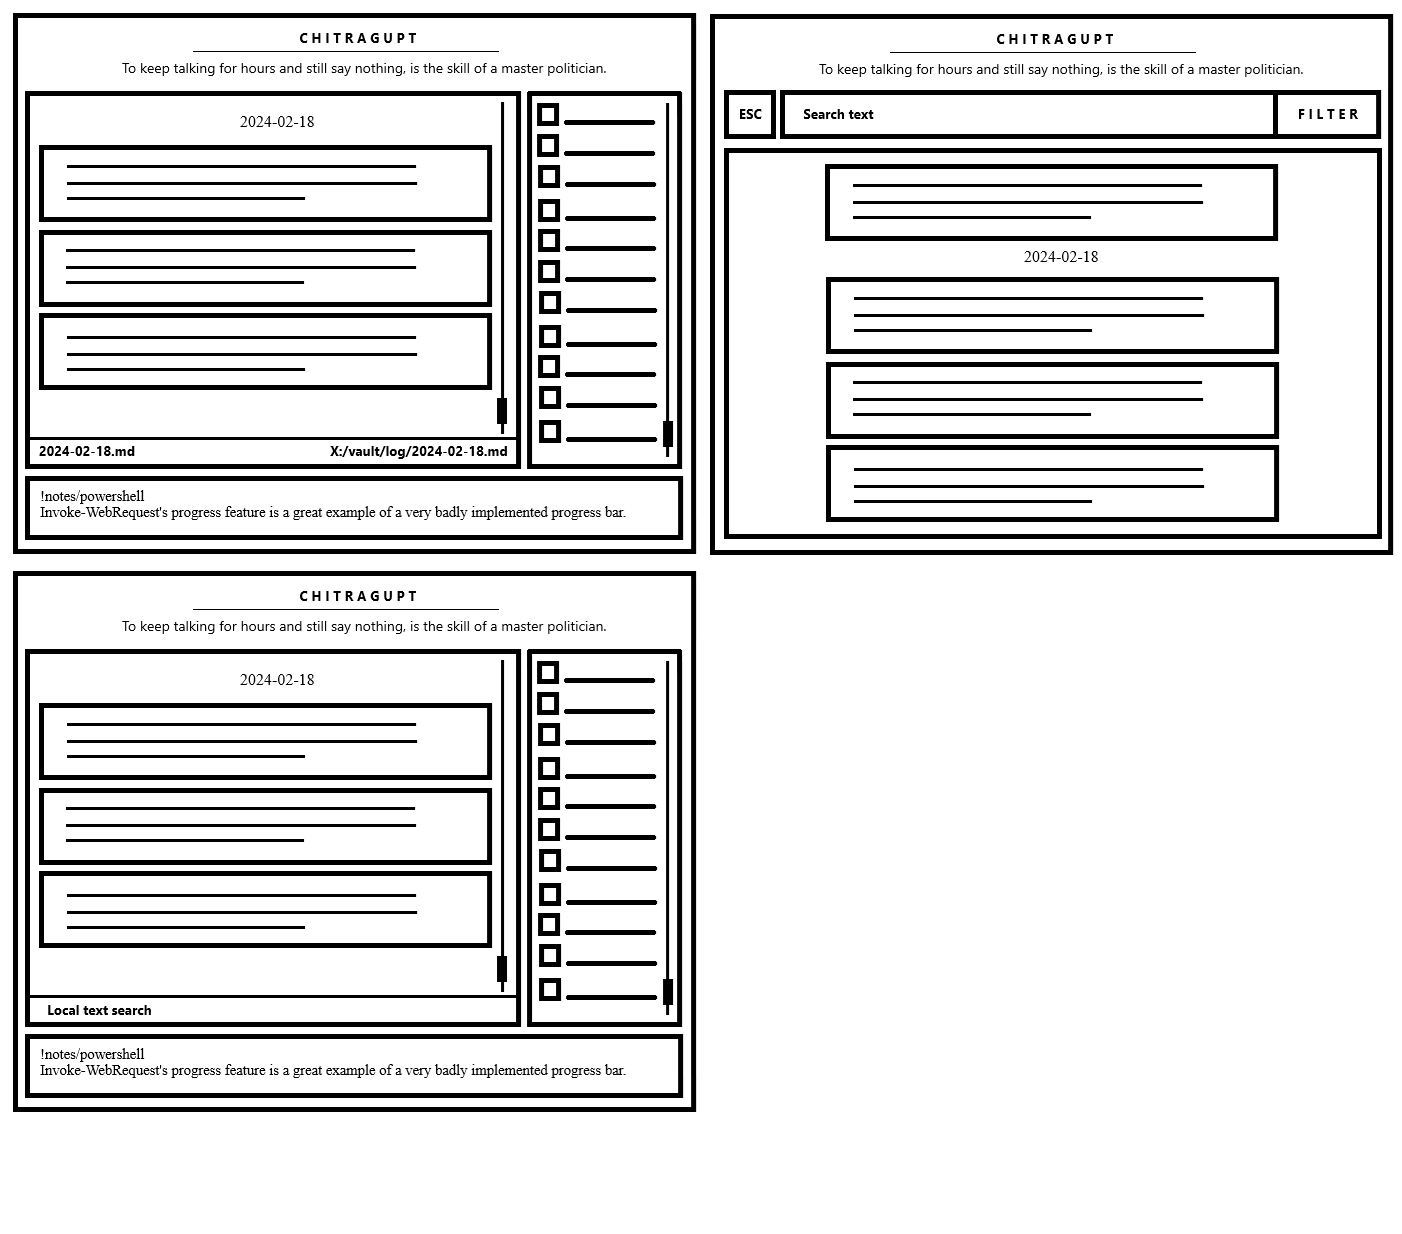
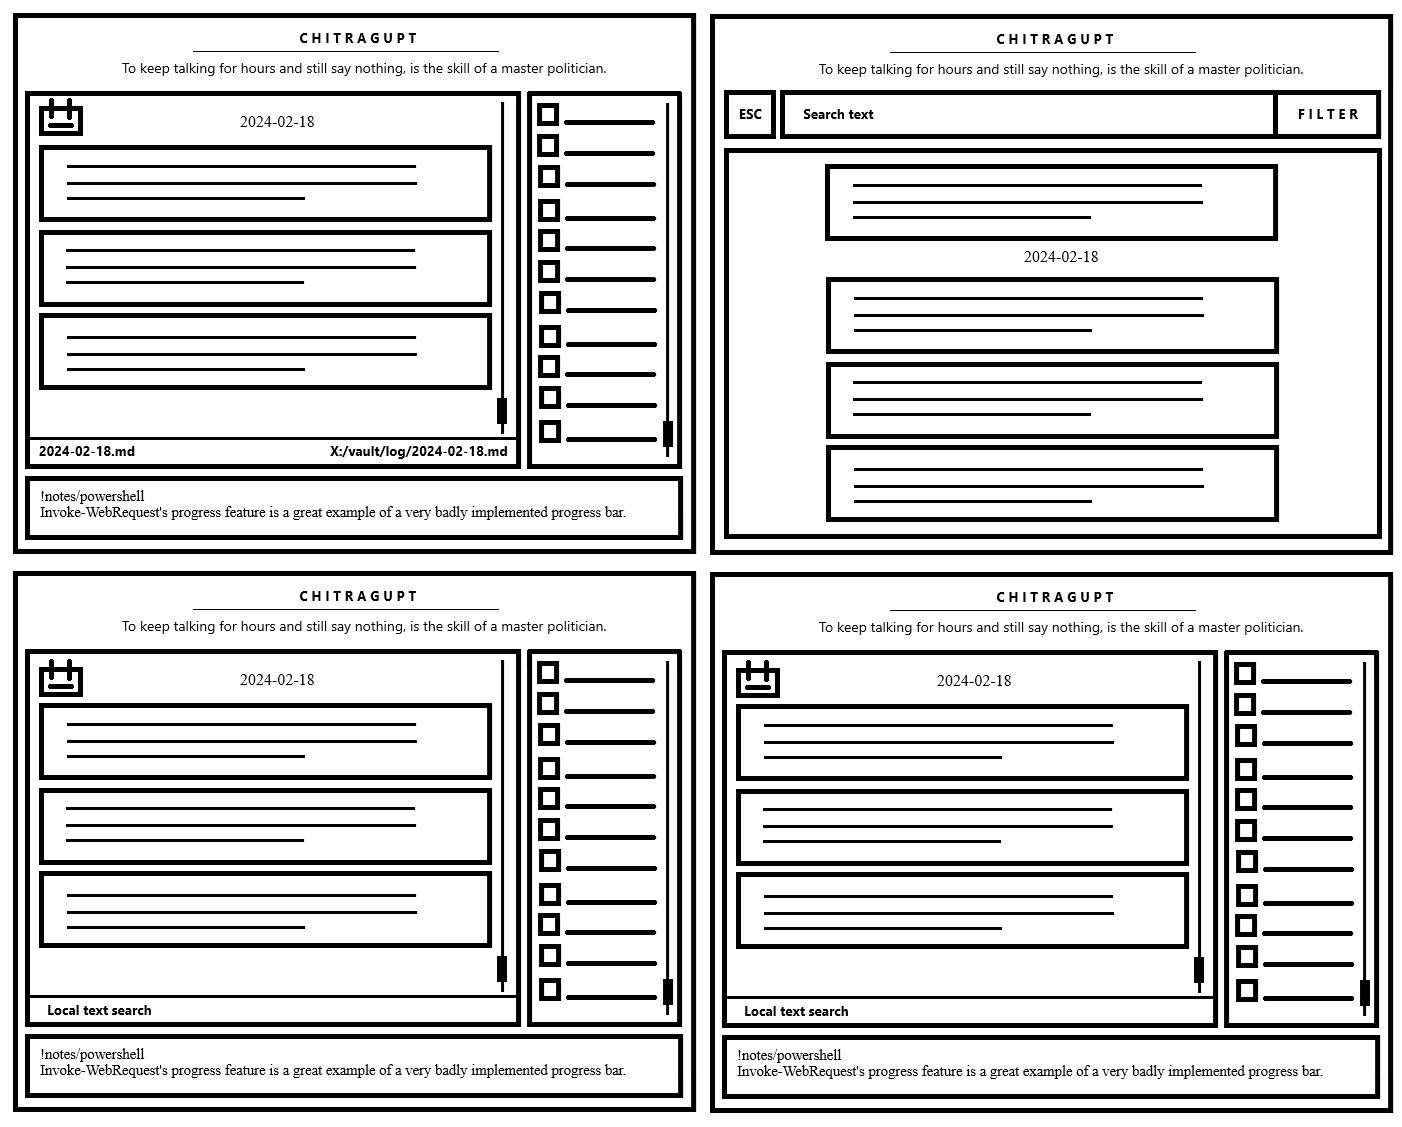
backup

Changed region(s): [[0.0, 0.0, 1.0, 0.9938]]

diff --git a/python/main.py b/python/main.py
@@ -1,19 +1,38 @@
 import os
 import json
 from datetime import date
-from datetime import datetime
 from PyQt6.QtCore import *
 from PyQt6.QtWidgets import *
+
+class TextArea(QTextEdit):
+    def __init__(self,parent):
+        super().__init__(parent=parent)
+        self.show()
+    def keyPressEvent():
 
 class WidgetGallery(QDialog):
 
     def __init__(self, parent=None):
         super(WidgetGallery, self).__init__(parent)
 
-        self.display_window = QVBoxLayout()
-        self.new_label_style = "color:black; background-color: coral; border: 1px solid brown; border-radius: 5px; padding: 10px; font-size: 16px;"
-        self.record_template = { "timestamp":0, "tags":[], "attachments":[], "text":"" }
-        self.todo_template = { "timestamp":0, "checkstate":0, "text":"" }
+        top_layout = QVBoxLayout()
+        mid_layout = QHBoxLayout()
+        btm_layout = QHBoxLayout()
+
+        quote = QLabel()
+        quote.setText("Better to be a smart fella than to be a fart smella")
+        quote.setStyleSheet("font-size:12px; padding:10px;")
+        quote.setAlignment(Qt.AlignmentFlag.AlignCenter)
+        top_layout.addWidget(quote)
+
+        self.log_frame = QVBoxLayout()
+        self.todo_frame = QVBoxLayout()
+        mid_layout.addLayout(self.log_frame)
+        mid_layout.addLayout(self.todo_frame)
+
+        self.log_label_style = "color:black; background-color: coral; border: 1px solid brown; border-radius: 5px; padding: 10px; font-size: 16px;"
+        self.todo_label_style = "color:black; background-color: skyblue; border: 1px solid brown; border-radius: 5px; padding: 10px; font-size: 16px;"
+        self.record_template = { "timestamp":"", "text":""  }
 
         self.text_edit = QTextEdit()
         self.text_edit.setMaximumHeight(100)
@@ -24,18 +43,19 @@ class WidgetGallery(QDialog):
         save_button.setFlat(True)
         save_button.clicked.connect(self.save)
 
-        bottom_layout = QHBoxLayout()
-        bottom_layout.addWidget(self.text_edit)
-        bottom_layout.addWidget(save_button)
+        btm_layout.addWidget(self.text_edit)
+        btm_layout.addWidget(save_button)
 
         main_layout = QGridLayout()
-        main_layout.addLayout(self.display_window,0,0,alignment=Qt.AlignmentFlag.AlignTop)
-        main_layout.addLayout(bottom_layout,1,0,alignment=Qt.AlignmentFlag.AlignBottom)
+        main_layout.addLayout(top_layout,0,0,alignment=Qt.AlignmentFlag.AlignTop)
+        main_layout.addLayout(mid_layout,1,0)
+        main_layout.addLayout(btm_layout,2,0,alignment=Qt.AlignmentFlag.AlignBottom)
         self.setLayout(main_layout)
         self.setWindowTitle("Chitragupt")
-        self.load_display_window()
+        self.load_log_frame()
+        self.resize(640,480)
 
-    def load_display_window(self):
+    def load_log_frame(self):
         current_date = date.today()
         filename = f"./{current_date}.md"
         file_exists = os.path.exists(filename)
@@ -45,20 +65,57 @@ class WidgetGallery(QDialog):
                     newline = newline.strip()
                     new_label = QLabel()
                     new_label.setText(newline)
-                    new_label.setStyleSheet(self.new_label_style)
-                    self.display_window.addWidget(new_label)
+                    new_label.setStyleSheet(self.log_label_style)
+                    self.log_frame.addWidget(new_label)
 
-    def save(self):
-        content = self.text_edit.toPlainText()
+    def open_calendar(self):
+        pass
+
+    def save_todo(self,content):
+        new_label = QLabel()
+        new_label.setText(content)
+        new_label.setStyleSheet(self.todo_label_style)
+        self.todo_frame.addWidget(new_label)
+    
+    def save_log(self,content):
         current_date = date.today()
-        filename = f"{current_date}.md"
-        content = self.text_edit.toPlainText()
+        filename = f"./{current_date}.md"
         with open(filename,'a') as fptr:
             fptr.write(content + "\n")
         new_label = QLabel()
         new_label.setText(content)
-        new_label.setStyleSheet(self.new_label_style)
-        self.display_window.addWidget(new_label)
+        new_label.setStyleSheet(self.log_label_style)
+        self.log_frame.addWidget(new_label)
+
+
+    def goto_date(self,date):
+        pass
+
+    def set_reminder(self,timestamp,message):
+        pass
+    
+    def save(self):
+        content = self.text_edit.toPlainText()
+        content = content.strip()
+        if(content[0]==":"):
+            print(content)
+            content_list = content.split("\n")
+            command_args = content_list[0].split(" ")
+            match command_args[0]:
+                case ":cal":
+                    self.open_calendar()
+                case ":todo":
+                    content_list[1]
+                    self.save_todo(content_list[1])
+                case ":goto":
+                    self.goto_date(command_args[1])
+                case ":remind":
+                    self.set_reminder(timestamp=command_args[1],message=content_list[1])
+                case _:
+                    print(f"Unknown Command: {command_args[0]}")
+        else:
+            self.save_log(content)
+
         self.text_edit.setPlainText("")
 
 if __name__ == "__main__":

diff --git a/python/2024-02-23.md b/python/2024-02-23.md
@@ -1,0 +1,4 @@
+hello
+Worked on FMV creator
+enw entry
+another entry

diff --git a/python/2024-02-24.md b/python/2024-02-24.md
@@ -1,0 +1,1 @@
+content
